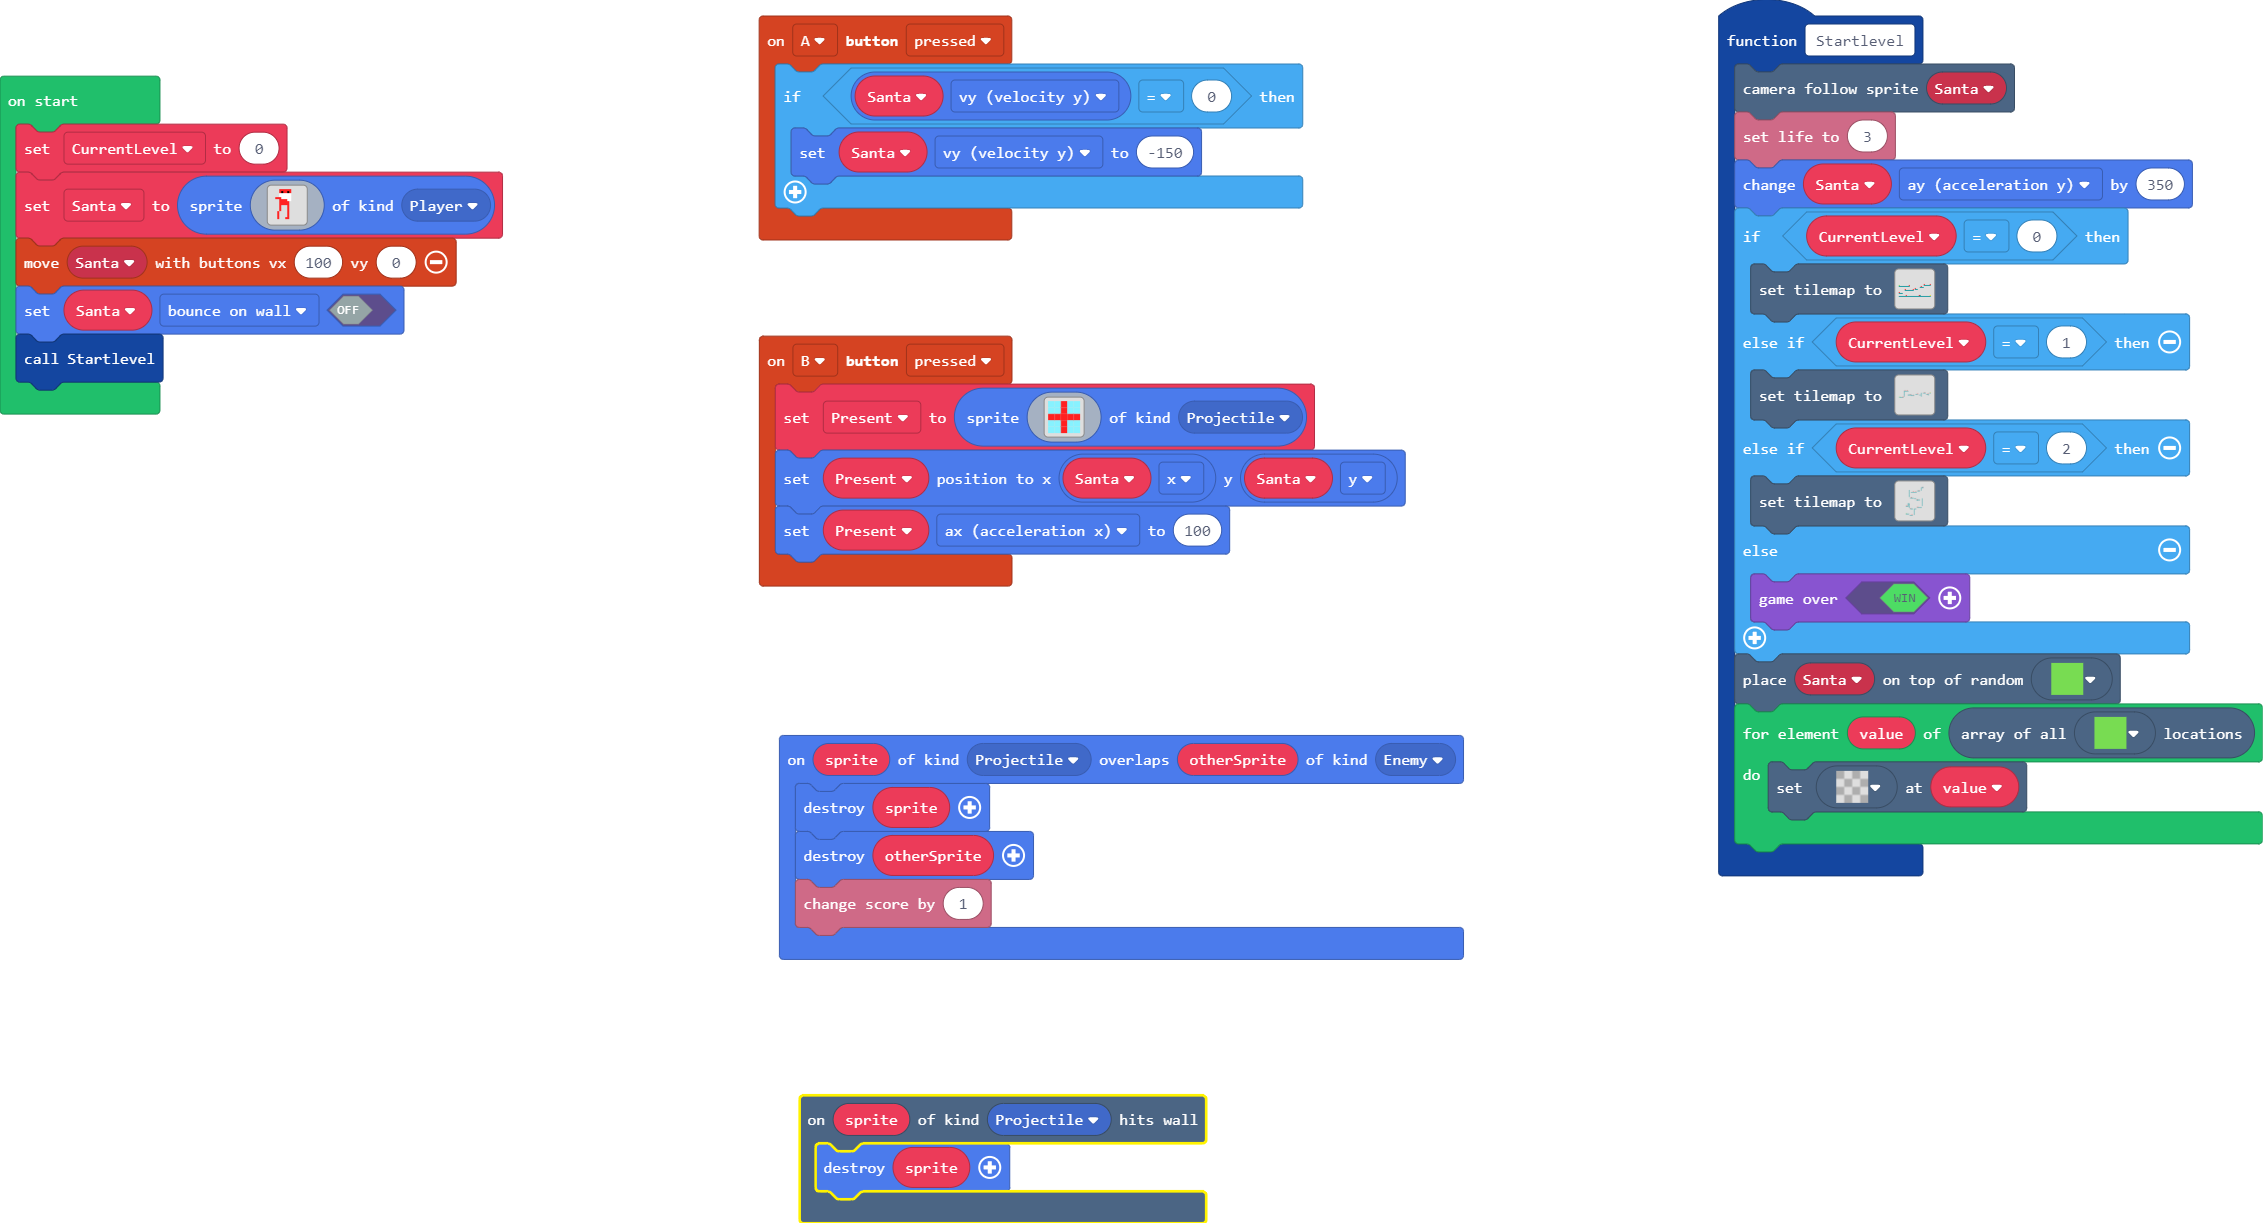
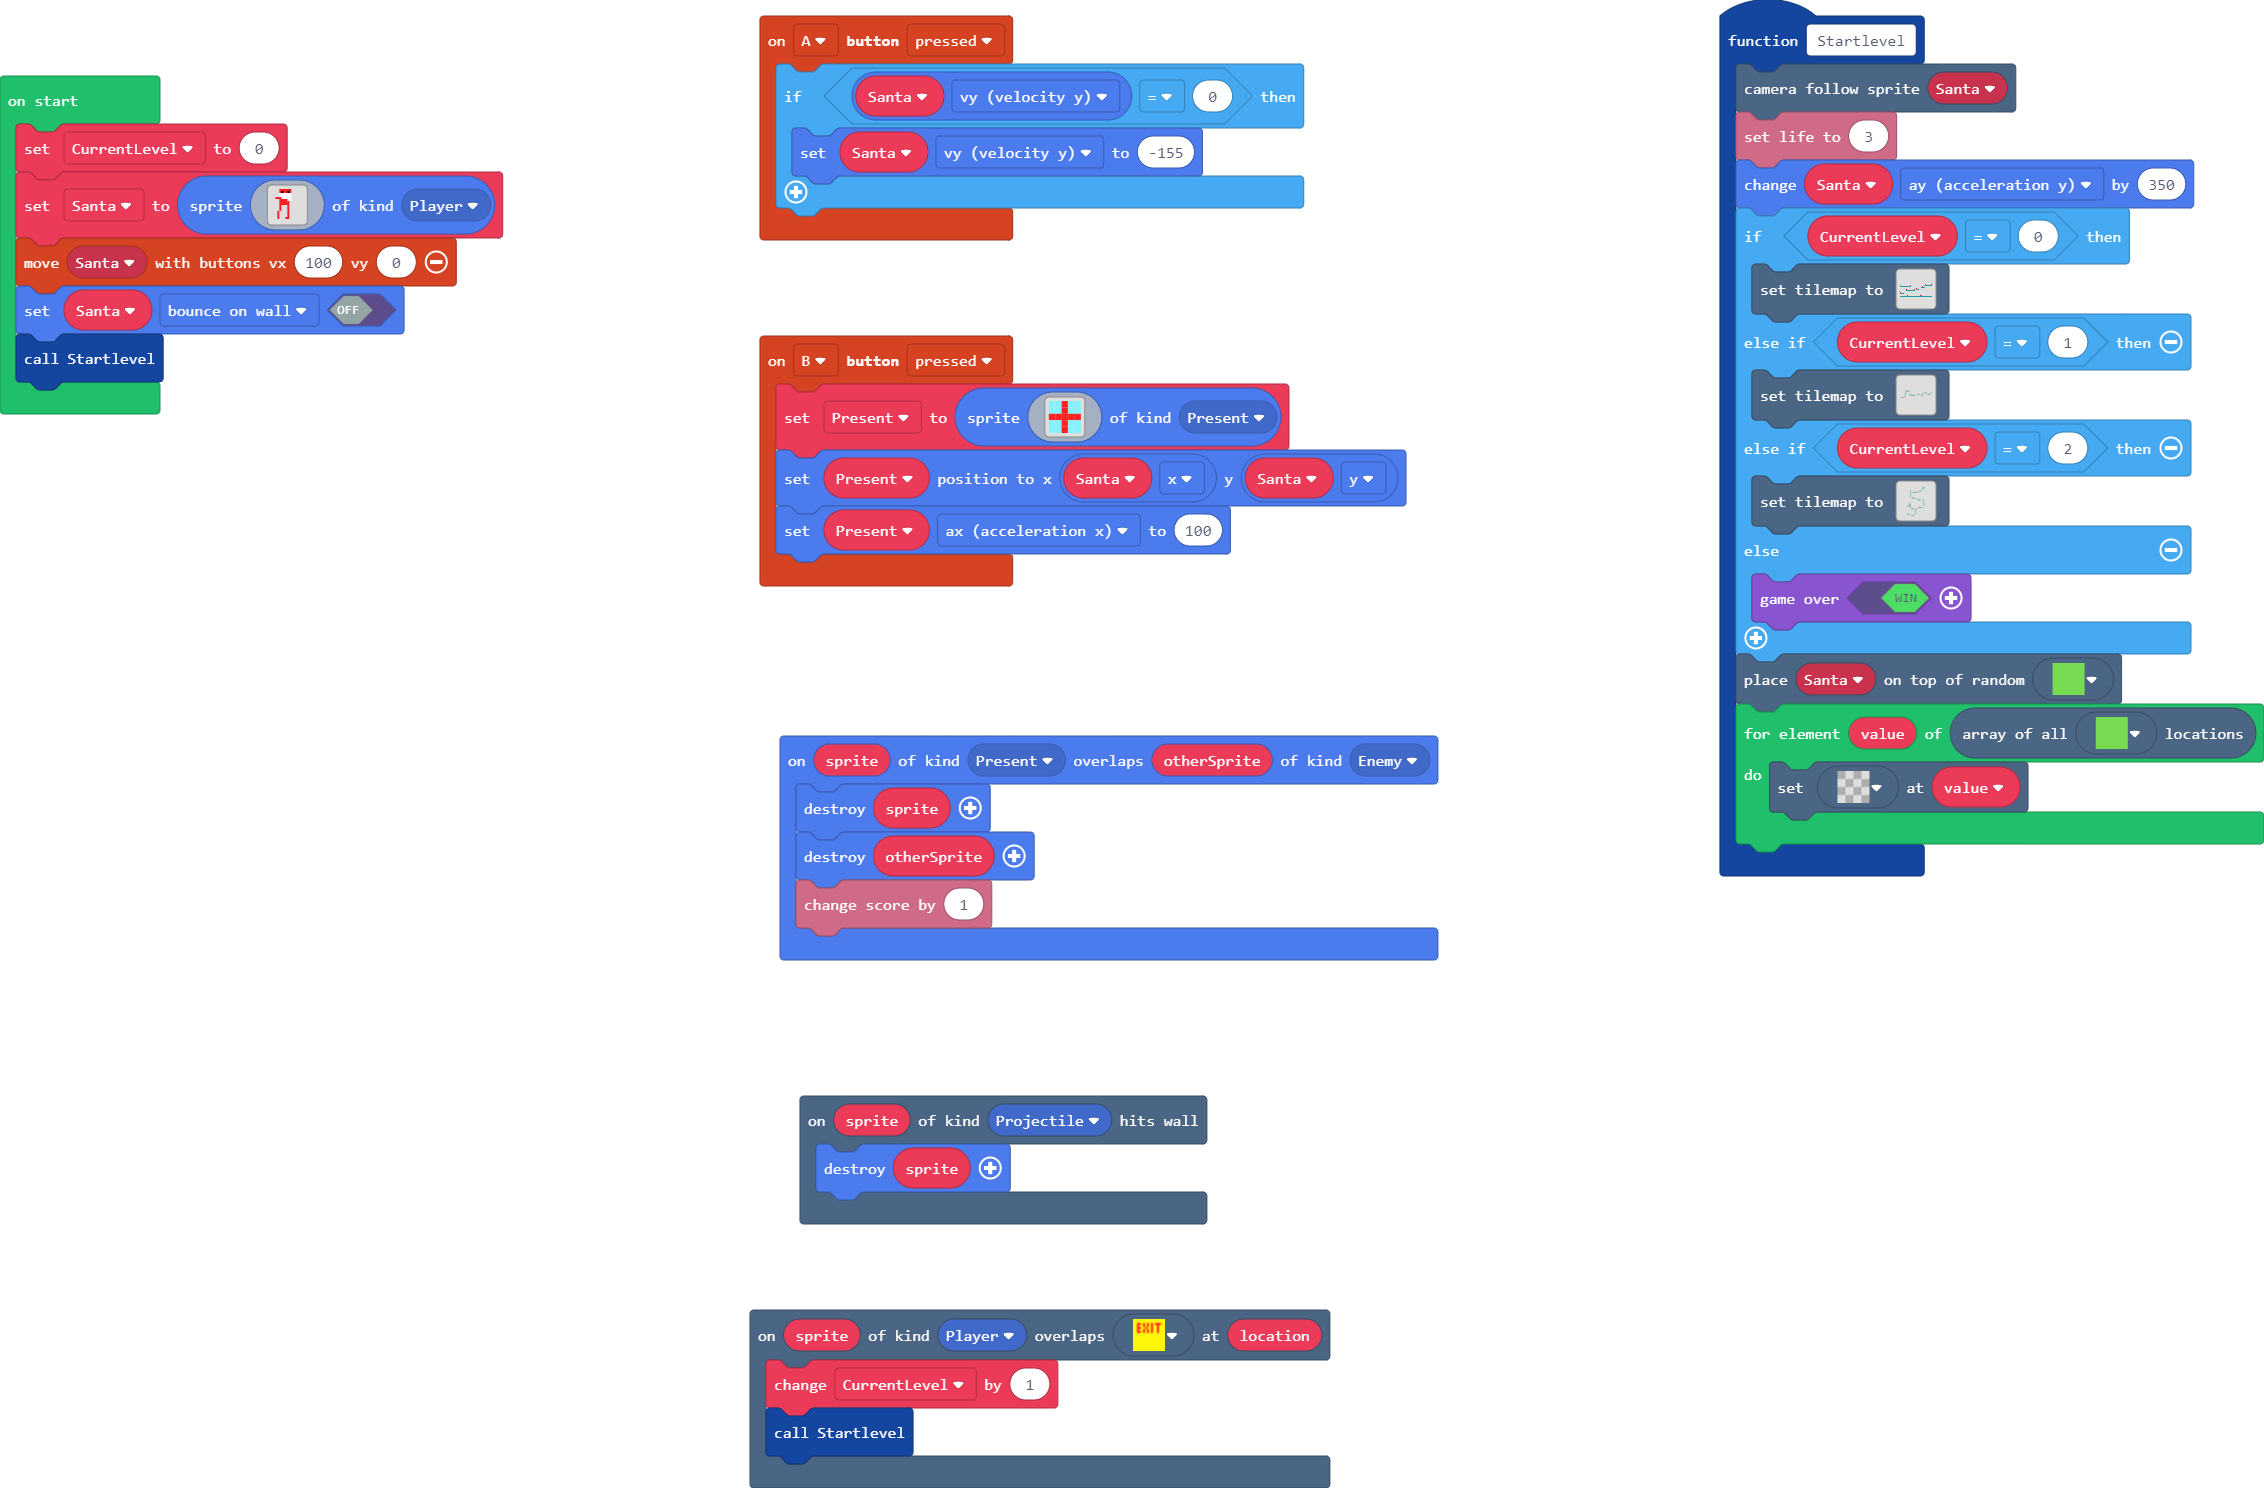
Update main.blocks, main.ts

diff --git a/main.ts b/main.ts
@@ -1,3 +1,6 @@
+namespace SpriteKind {
+    export const Present = SpriteKind.create()
+}
 namespace myTiles {
     //% blockIdentity=images._tile
     export const tile0 = img`
@@ -121,18 +124,13 @@ controller.B.onEvent(ControllerButtonEvent.Pressed, function () {
 2 2 2 2 2 
 9 9 2 9 9 
 9 9 2 9 9 
-`, SpriteKind.Projectile)
+`, SpriteKind.Present)
     Present.setPosition(Santa.x, Santa.y)
     Present.ax = 100
 })
-sprites.onOverlap(SpriteKind.Projectile, SpriteKind.Enemy, function (sprite, otherSprite) {
-    sprite.destroy()
-    otherSprite.destroy()
-    info.changeScoreBy(1)
-})
 controller.A.onEvent(ControllerButtonEvent.Pressed, function () {
     if (Santa.vy == 0) {
-        Santa.vy = -150
+        Santa.vy = -155
     }
 })
 scene.onHitWall(SpriteKind.Projectile, function (sprite) {
@@ -256,6 +254,15 @@ function Startlevel () {
         tiles.setTileAt(value, myTiles.tile0)
     }
 }
+scene.onOverlapTile(SpriteKind.Player, myTiles.tile2, function (sprite, location) {
+    CurrentLevel += 1
+    Startlevel()
+})
+sprites.onOverlap(SpriteKind.Present, SpriteKind.Enemy, function (sprite, otherSprite) {
+    sprite.destroy()
+    otherSprite.destroy()
+    info.changeScoreBy(1)
+})
 let Present: Sprite = null
 let Santa: Sprite = null
 let CurrentLevel = 0
